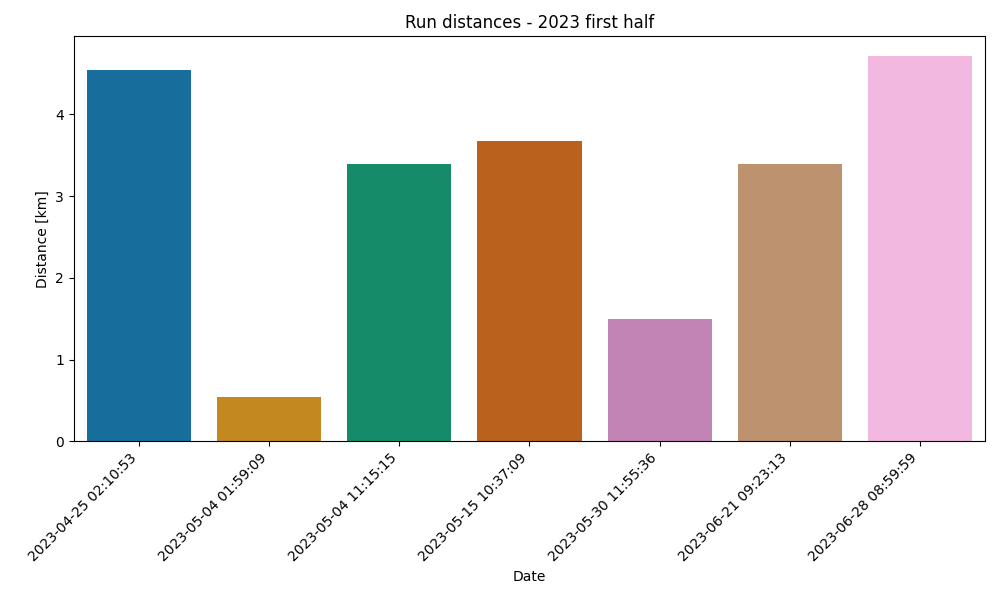
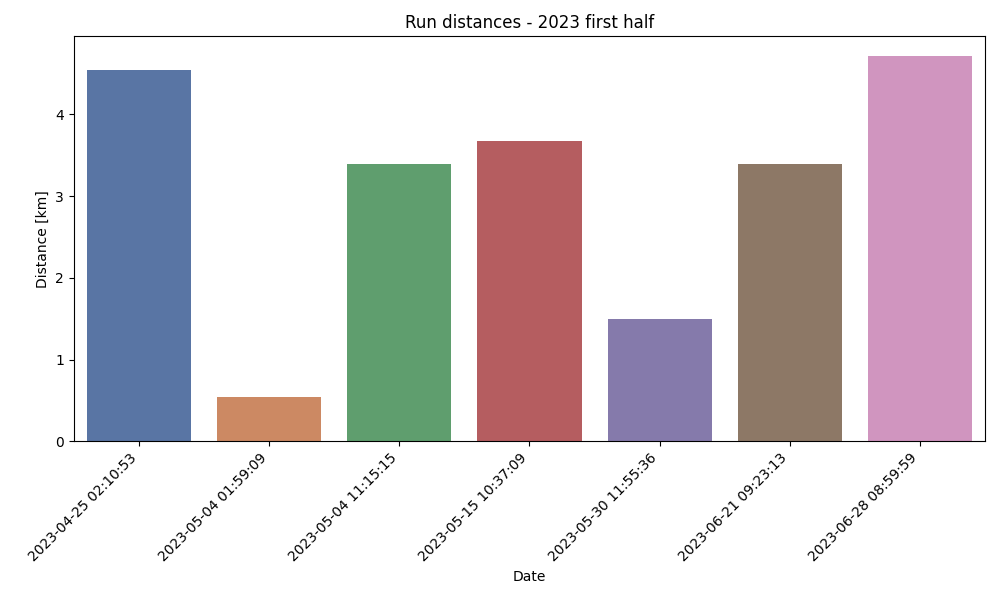
chore: update palette

diff --git a/src/plot.py b/src/plot.py
@@ -141,7 +141,12 @@ def main():
     years = [2021, 2022, 2023]
     half_years = [1, 2]
 
-    color_palettes = ["pastel", "dark", "colorblind"]
+    color_palettes = [
+        "pastel",
+        "dark",
+        "deep",
+        # "colorblind",
+        ]
 
     for idx, year in enumerate(years):
 
